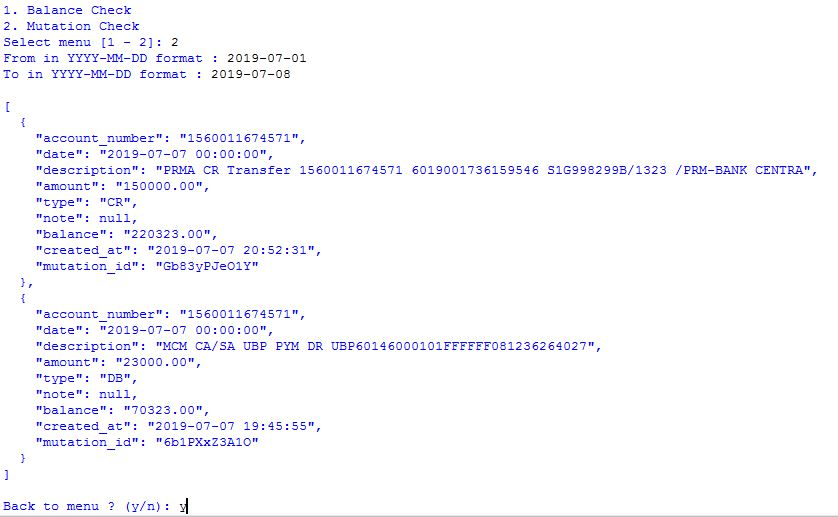
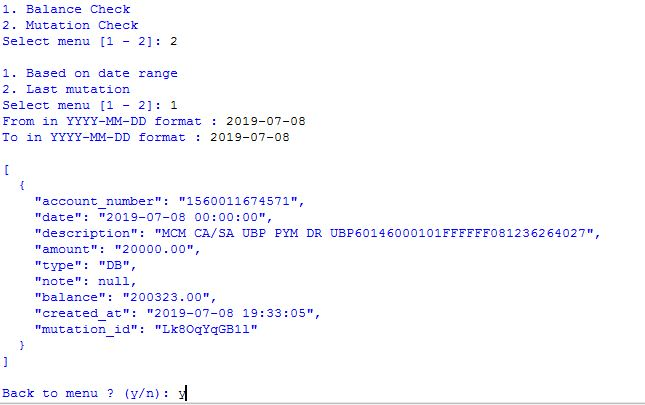
Add the last mutation feature

Changed region(s): [[0.0, 0.0, 0.9612, 0.8889], [0.0, 0.9481, 1.0, 1.0], [0.0, 0.8889, 0.031, 0.9185]]

diff --git a/Task.py b/Task.py
@@ -13,10 +13,11 @@ import datetime
 
 headers = {
     'Accept': 'application/json',
-    'Authorization': 'Bearer xxxxxxxxxxxxxxxxxxxxxxxxxxxxxxxxxxxxxxxxxxxxx',
+    'Authorization': 'Bearer xxxxxxxxxxxxxxxxxxxxxxxxxxxxxxxxxxxxxxxxxxxxxxxxxxxxxx',
 }
 
 get_api_moota = requests.get('https://app.moota.co/api/v1/bank/{bank_id}/mutation', headers = headers)
+last = requests.get('https://app.moota.co/api/v1/bank/{bank_id}/mutation/recent', headers = headers)
 
 def menu():
     menu = ['Balance Check','Mutation Check']
@@ -28,7 +29,7 @@ def menu():
             balance_check(get_api_moota)
             break
         elif menu == '2':
-            mutation_check(get_api_moota)
+            mutation_check(get_api_moota, last)
             break
         else:
             print("Invalid choice. Try again")
@@ -62,15 +63,38 @@ def balance_check(c_balance):
     
     back_to_menu()
 
-def mutation_check(mutation_tm):
+
+def mutation_check(get_api_moota, last):
+    menu = ['Based on date range','Last mutation']
+    print()
+    for i in range(len(menu)):
+        print("%d. %s"%(i+1, menu[i]))
+    while True:
+        menu = input("Select menu [1 - 2]: ")
+        if menu == '1':
+            date_range(get_api_moota)
+            break
+        elif menu == '2':
+            last_month(last)
+            break
+        else:
+            print("Invalid choice. Try again")
+            
+def date_range(mutation_tm):
     data = json.loads(mutation_tm.text)
     array_mutation = []
-    frm = input('From in YYYY-MM-DD format : ')
-    year, month, day = map(int, frm.split('-'))
-    date_from = datetime.date(year, month, day)
-    to = input('To in YYYY-MM-DD format : ')
-    year, month, day = map(int, to.split('-'))
-    date_to = datetime.date(year, month, day)
+    while True:        
+        frm = input('From in YYYY-MM-DD format : ')
+        to = input('To in YYYY-MM-DD format : ')
+        if len(frm) == 10 and len(to) == 10:            
+            year, month, day = map(int, frm.split('-'))
+            date_from = datetime.date(year, month, day)
+            year, month, day = map(int, to.split('-'))
+            date_to = datetime.date(year, month, day)
+            break
+        else:
+            print("Incorrect date format. Try again!")
+            
     for i in range(len(data['data'])):
         get_date = json.dumps(data['data'][i]['date'])
         get_date_str = get_date[1:11]
@@ -87,7 +111,12 @@ def mutation_check(mutation_tm):
         print("There are no transactions in the date range entered")
         
     back_to_menu()
-    
+
+def last_month(mutation_last):
+    data = json.loads(mutation_last.text)
+    j = json.dumps(data, indent = 2)
+    print(j)
+    back_to_menu()
 
 if __name__ == '__main__':
     menu()

diff --git a/README.md b/README.md
@@ -135,10 +135,75 @@ def back_to_menu():
         else:
             print("Invalid choice. Try again")    
 ```
+
+oupsss, I almost forgot, I want to add the last mutation feature, when selecting the check mutation menu, there are 2 choices:
+1. Based on date range<br/>
+2. Last mutation<br/>
+
+add the 'last' variable to take the last mutation, like this
+```json
+last = requests.get('https://app.moota.co/api/v1/bank/{bank_id}/mutation/recent', headers = headers)
+```
+
+The code is like this
+```json
+def mutation_check(get_api_moota, last):
+    menu = ['Based on date range','Last mutation']
+    print()
+    for i in range(len(menu)):
+        print("%d. %s"%(i+1, menu[i]))
+    while True:
+        menu = input("Select menu [1 - 2]: ")
+        if menu == '1':
+            date_range(get_api_moota)
+            break
+        elif menu == '2':
+            last_month(last)
+            break
+        else:
+            print("Invalid choice. Try again")
+            
+def date_range(mutation_tm):
+    data = json.loads(mutation_tm.text)
+    array_mutation = []
+    while True:        
+        frm = input('From in YYYY-MM-DD format : ')
+        to = input('To in YYYY-MM-DD format : ')
+        if len(frm) == 10 and len(to) == 10:            
+            year, month, day = map(int, frm.split('-'))
+            date_from = datetime.date(year, month, day)
+            year, month, day = map(int, to.split('-'))
+            date_to = datetime.date(year, month, day)
+            break
+        else:
+            print("Incorrect date format. Try again!")
+            
+    for i in range(len(data['data'])):
+        get_date = json.dumps(data['data'][i]['date'])
+        get_date_str = get_date[1:11]
+        date_time_obj = datetime.datetime.strptime(get_date_str, '%Y-%m-%d')
+        if date_from <= date_time_obj.date() <= date_to:
+            array_mutation.append(data['data'][i])
+            
+    if array_mutation != []:
+        filtered_mutation = json.dumps(array_mutation, indent = 2)
+        print()
+        print(filtered_mutation)
+    else:
+        print()
+        print("There are no transactions in the date range entered")
+        
+    back_to_menu()
+
+def last_month(mutation_last):
+    data = json.loads(mutation_last.text)
+    j = json.dumps(data, indent = 2)
+    print(j)
+    back_to_menu()  
+```
 Output:<br/>
 ## Check account balance
 <img src="output/1.JPG"><br/>
-<img src="output/2.JPG"><br/>
 
 
 ## Check mutations
